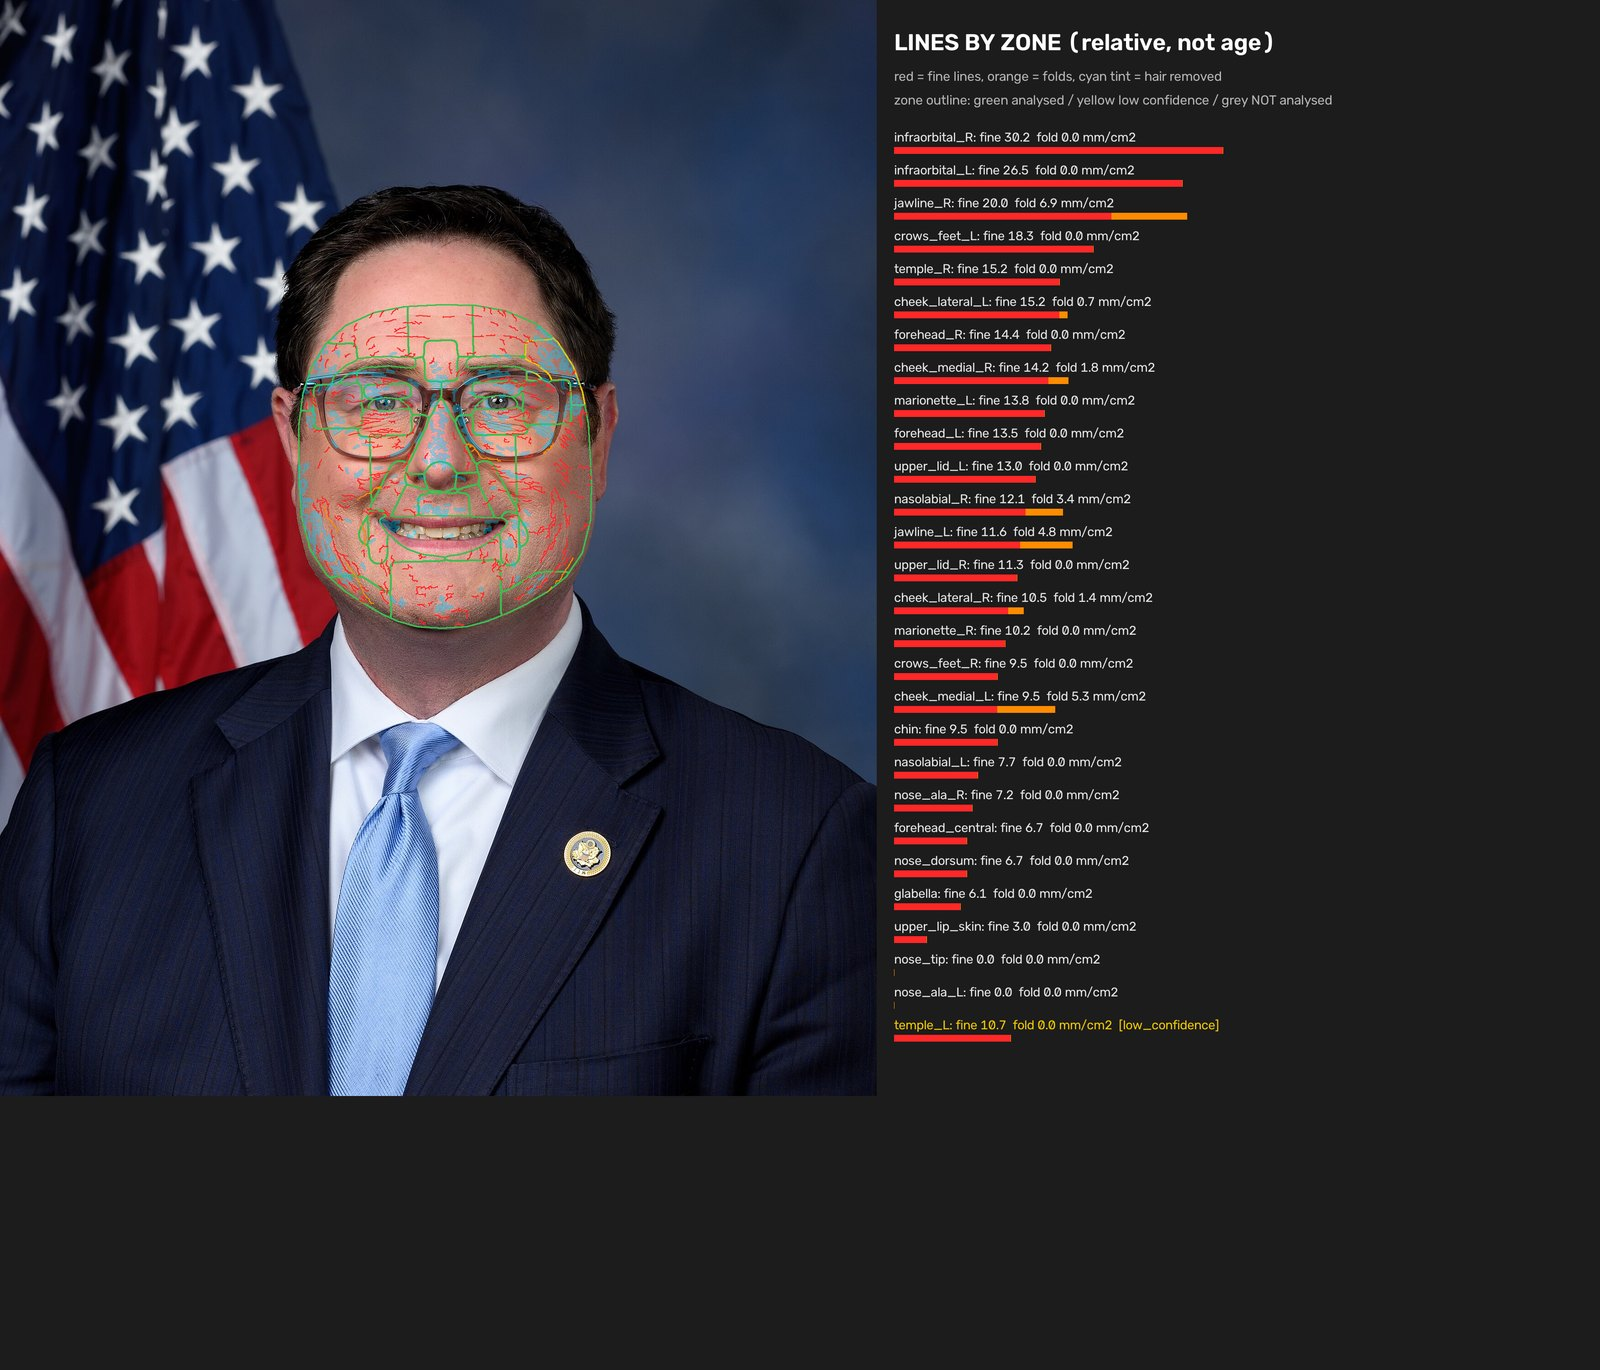
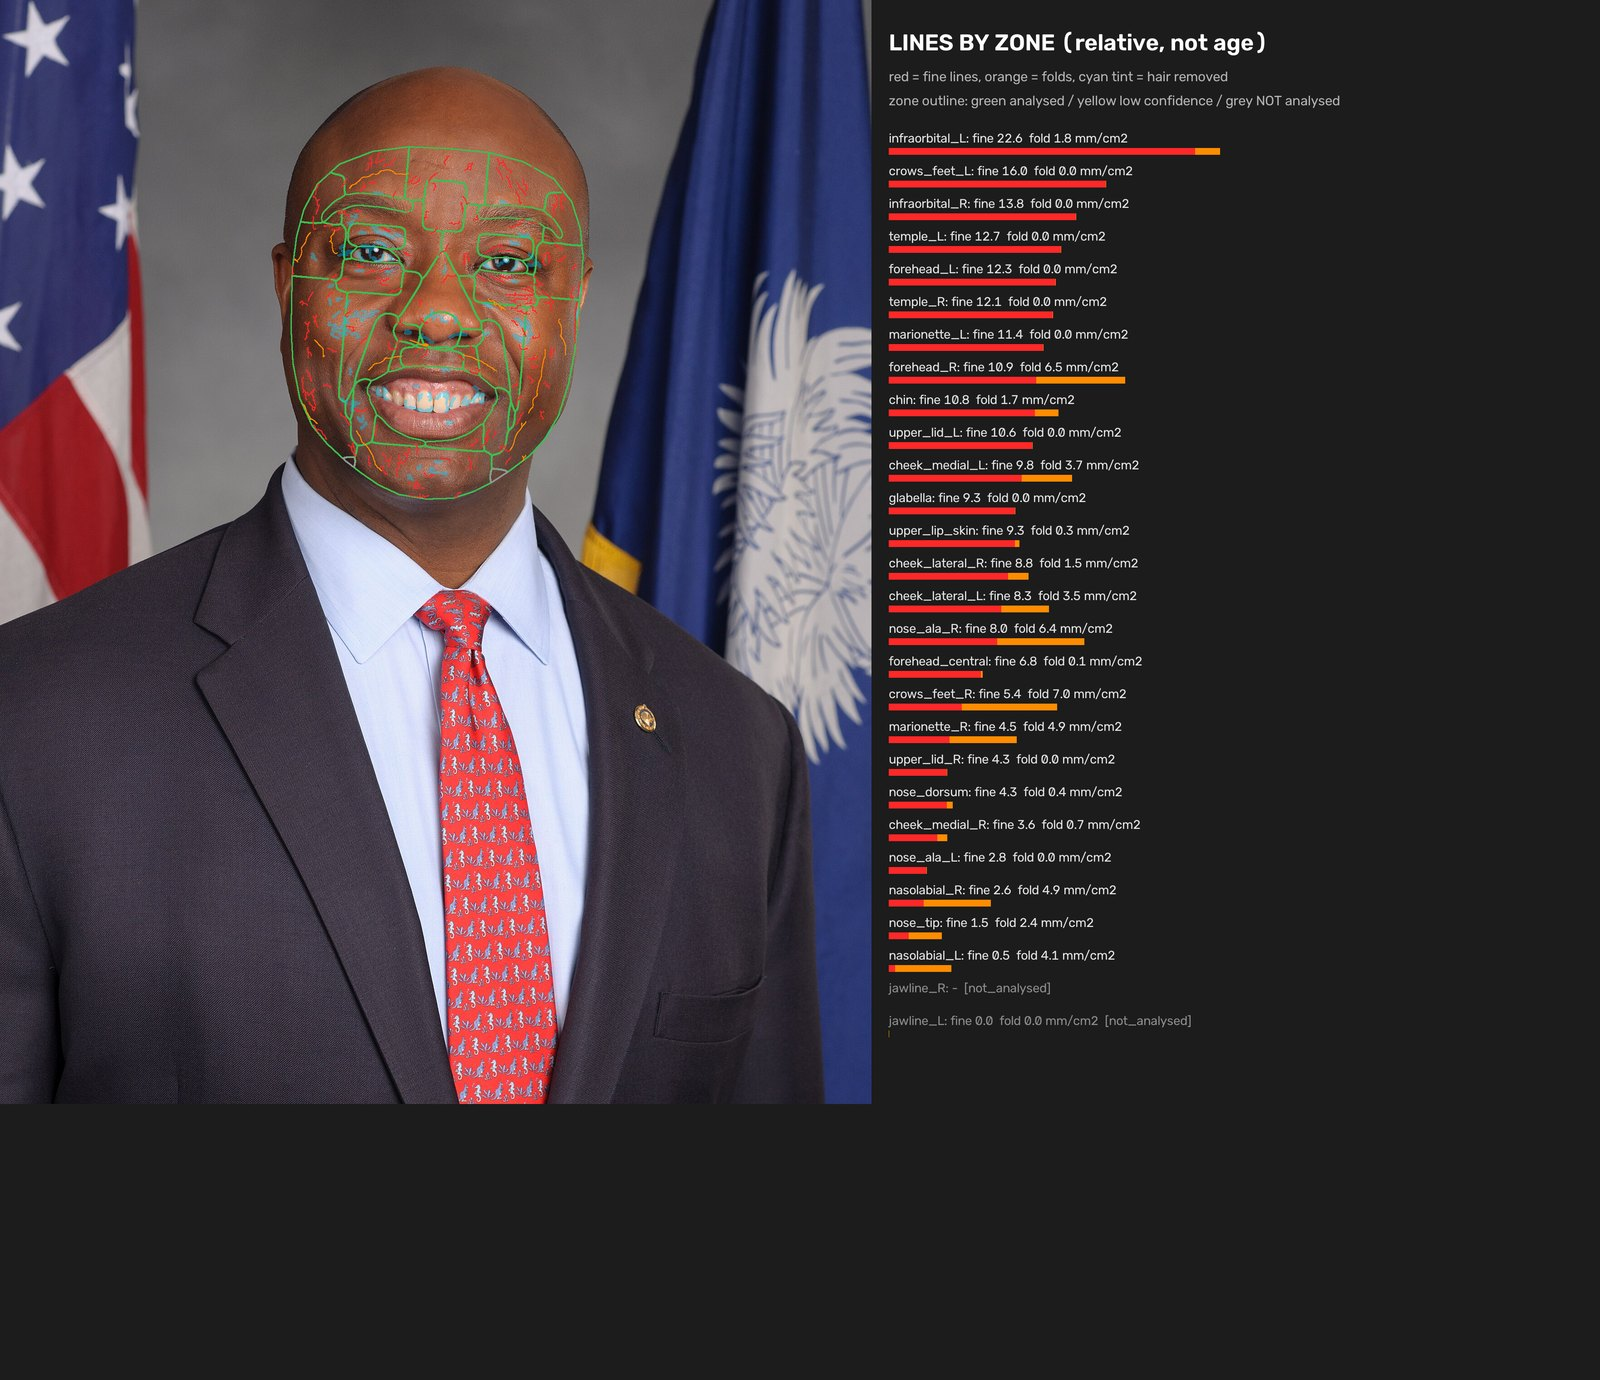
Gallery: keep one example per annotation type

diff --git a/README.md b/README.md
@@ -61,20 +61,16 @@ A fibrosis signature of 23 collagen, growth factor and matrix genes recovered ex
 
 ## Gallery
 
-Selected outputs from development and testing, covering wounds, scars, palsy, wrinkles, acne and the facial atlas. Photographs were taken from Wikimedia Commons under public domain, CC BY or CC BY SA terms, and credit belongs to the original file pages. All plans are decision support examples and have not been checked by surgeons.
+Selected outputs from development and testing, each showing a different kind of annotation and none repeating another. Photographs were taken from Wikimedia Commons under public domain, CC BY or CC BY SA terms, and credit belongs to the original file pages. All plans are decision support examples and have not been checked by surgeons.
 
 <table>
   <tr>
     <td width="50%" valign="top"><img src="assets/gallery/wound_suture_plan.jpg" width="100%" alt="Wound plan with numbered suture marks in halving order, on a wound simulation mannequin."><br><sub>Wound plan with numbered suture marks in halving order, on a wound simulation mannequin.</sub></td>
-    <td width="50%" valign="top"><img src="assets/gallery/serial_z_plasty.jpg" width="100%" alt="Serial Z plasty alternative for the same wound, with alternating limbs."><br><sub>Serial Z plasty alternative for the same wound, with alternating limbs.</sub></td>
+    <td width="50%" valign="top"><img src="assets/gallery/contour_sam_vs_grabcut.jpg" width="100%" alt="Wound contour from the segmentation model in green and from the fallback method in magenta, both started from the same rough orange line."><br><sub>Wound contour from the segmentation model in green and from the fallback method in magenta, both started from the same rough orange line.</sub></td>
   </tr>
   <tr>
-    <td width="50%" valign="top"><img src="assets/gallery/closure_illustration.jpg" width="100%" alt="Schematic illustration before and after closure. It is not a prediction."><br><sub>Schematic illustration before and after closure. It is not a prediction.</sub></td>
     <td width="50%" valign="top"><img src="assets/gallery/keloid_nonlinear.jpg" width="100%" alt="Facial keloid recognised as a nonlinear lesion, so no suture line is drawn."><br><sub>Facial keloid recognised as a nonlinear lesion, so no suture line is drawn.</sub></td>
-  </tr>
-  <tr>
-    <td width="50%" valign="top"><img src="assets/gallery/palsy_symmetry.jpg" width="100%" alt="Facial palsy portrait with proportions and symmetry flags against cited references."><br><sub>Facial palsy portrait with proportions and symmetry flags against cited references.</sub></td>
-    <td width="50%" valign="top"><img src="assets/gallery/wrinkle_map.jpg" width="100%" alt="Wrinkle map by zone, with hair removed and unanalysed zones marked."><br><sub>Wrinkle map by zone, with hair removed and unanalysed zones marked.</sub></td>
+    <td width="50%" valign="top"><img src="assets/gallery/wrinkle_map.jpg" width="100%" alt="Wrinkle map by zone on darker skin, with hair removed and unanalysed zones marked."><br><sub>Wrinkle map by zone on darker skin, with hair removed and unanalysed zones marked.</sub></td>
   </tr>
   <tr>
     <td width="50%" valign="top"><img src="assets/gallery/acne_candidates.jpg" width="100%" alt="Colour based acne lesion candidates, to be confirmed by the clinician."><br><sub>Colour based acne lesion candidates, to be confirmed by the clinician.</sub></td>
